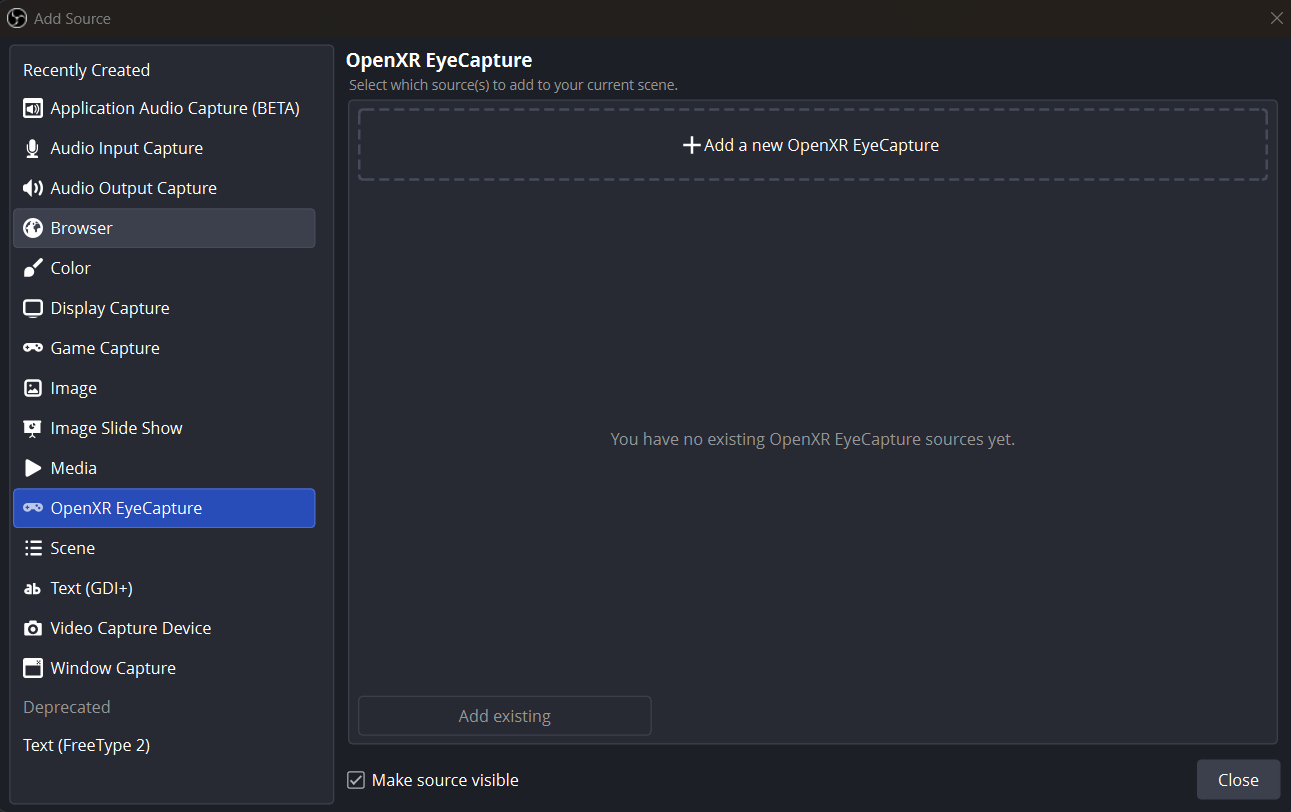
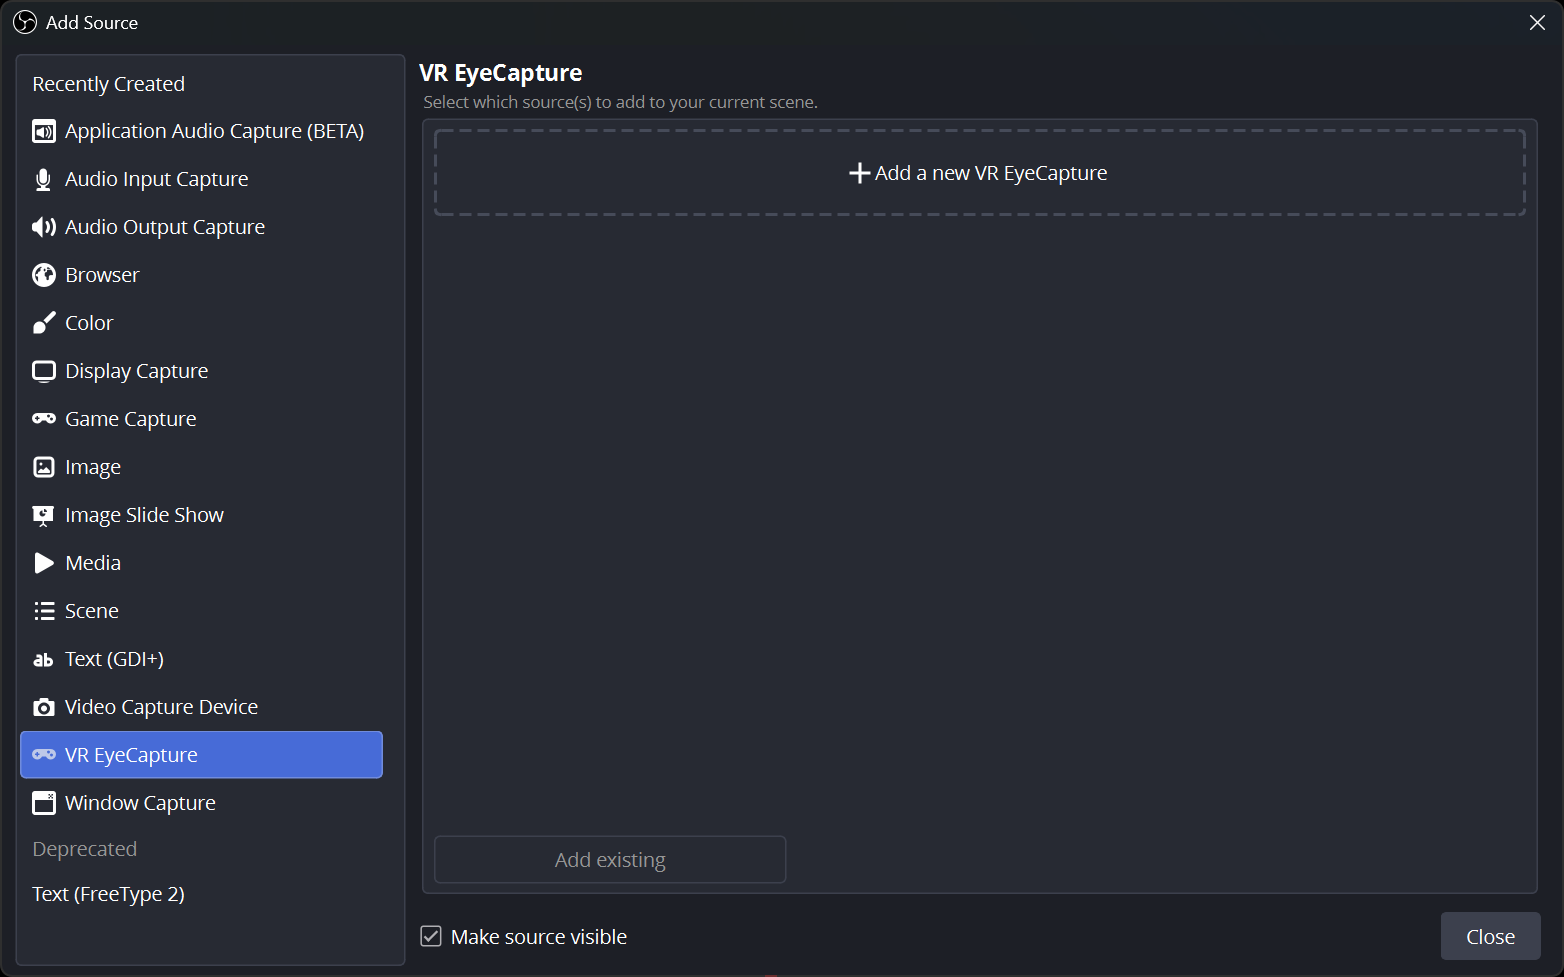
README: new OBS screenshots with the v0.5.0 source name "VR EyeCapture"
The old pictures showed the v0.4 source name "OpenXR EyeCapture". New ones from OBS 32.2.2 with the v0.5.0 plugin:
Add Source (VR EyeCapture selected, an empty list of existing sources as for a new user), the Properties window and
the Sources list. The OBS install steps now say "installer" instead of "main zip".

diff --git a/README.md b/README.md
@@ -699,11 +699,11 @@ recording are independent.
 
 **Install**
 
-The plugin is a separate download. It is not in the main zip, so you only get it if you use OBS.
+The plugin is a separate download. It is not in the installer, so you only get it if you use OBS.
 
 1. Download `VR-EyeCapture-OBS-v<version>.zip` from the
    [latest release](https://github.com/JRDevo/VR-EyeCapture/releases/latest) under **Assets**. Use the same
-   version as the main zip: a plugin and a layer of different versions ignore each other.
+   version as the installer: a plugin and a layer of different versions ignore each other.
 2. Close OBS.
 3. Copy `obs-eyecapture.dll` from that zip to `C:\ProgramData\obs-studio\plugins\obs-eyecapture\bin\64bit\` (make the folders).
 
